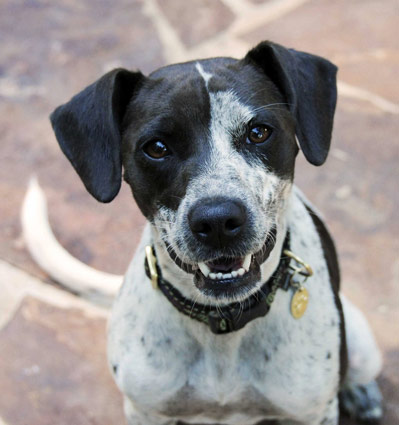
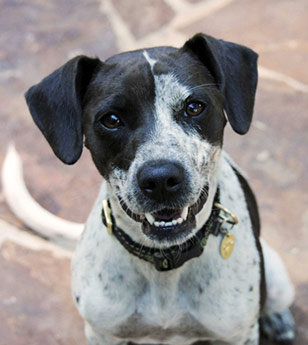
touched up adoption process

diff --git a/app/assets/stylesheets/custom.css.scss b/app/assets/stylesheets/custom.css.scss
@@ -1,5 +1,5 @@
 body {
-	padding-top: 90px;
+	padding-top: 80px;
 }
 
 label.error {
@@ -34,7 +34,7 @@ form .clearfix.error span.error {
 }
 
 .sidekick {
-	background-color: #e7f4f7;
+	background-color: #ffffff;
 	border-radius: 6px 6px 6px 6px;
 	padding: 10px;
 }
@@ -45,9 +45,11 @@ form .clearfix.error span.error {
 
 img.floatLeft { 
     float: left; 
-    margin: 4px; 
+    margin: 4px;
+    border-radius: 6px 6px 6px 6px;
 }
 img.floatRight { 
     float: right; 
-    margin: 4px; 
+    margin: 4px;
+    border-radius: 6px 6px 6px 6px;
 }
